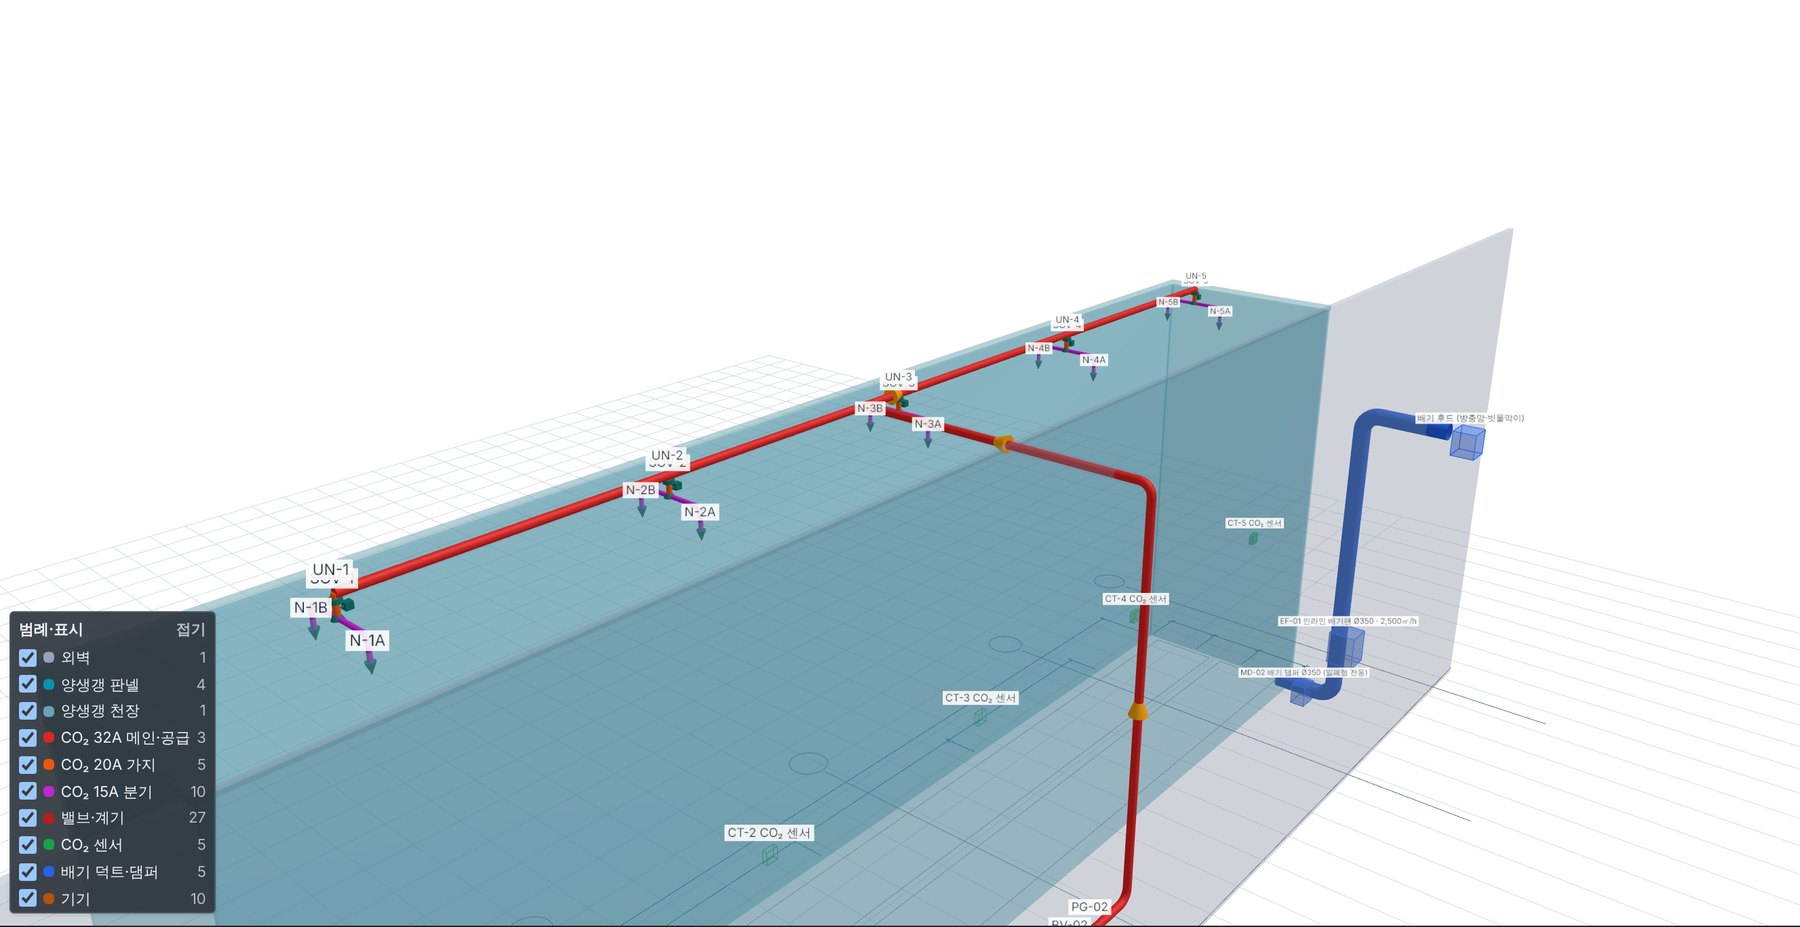
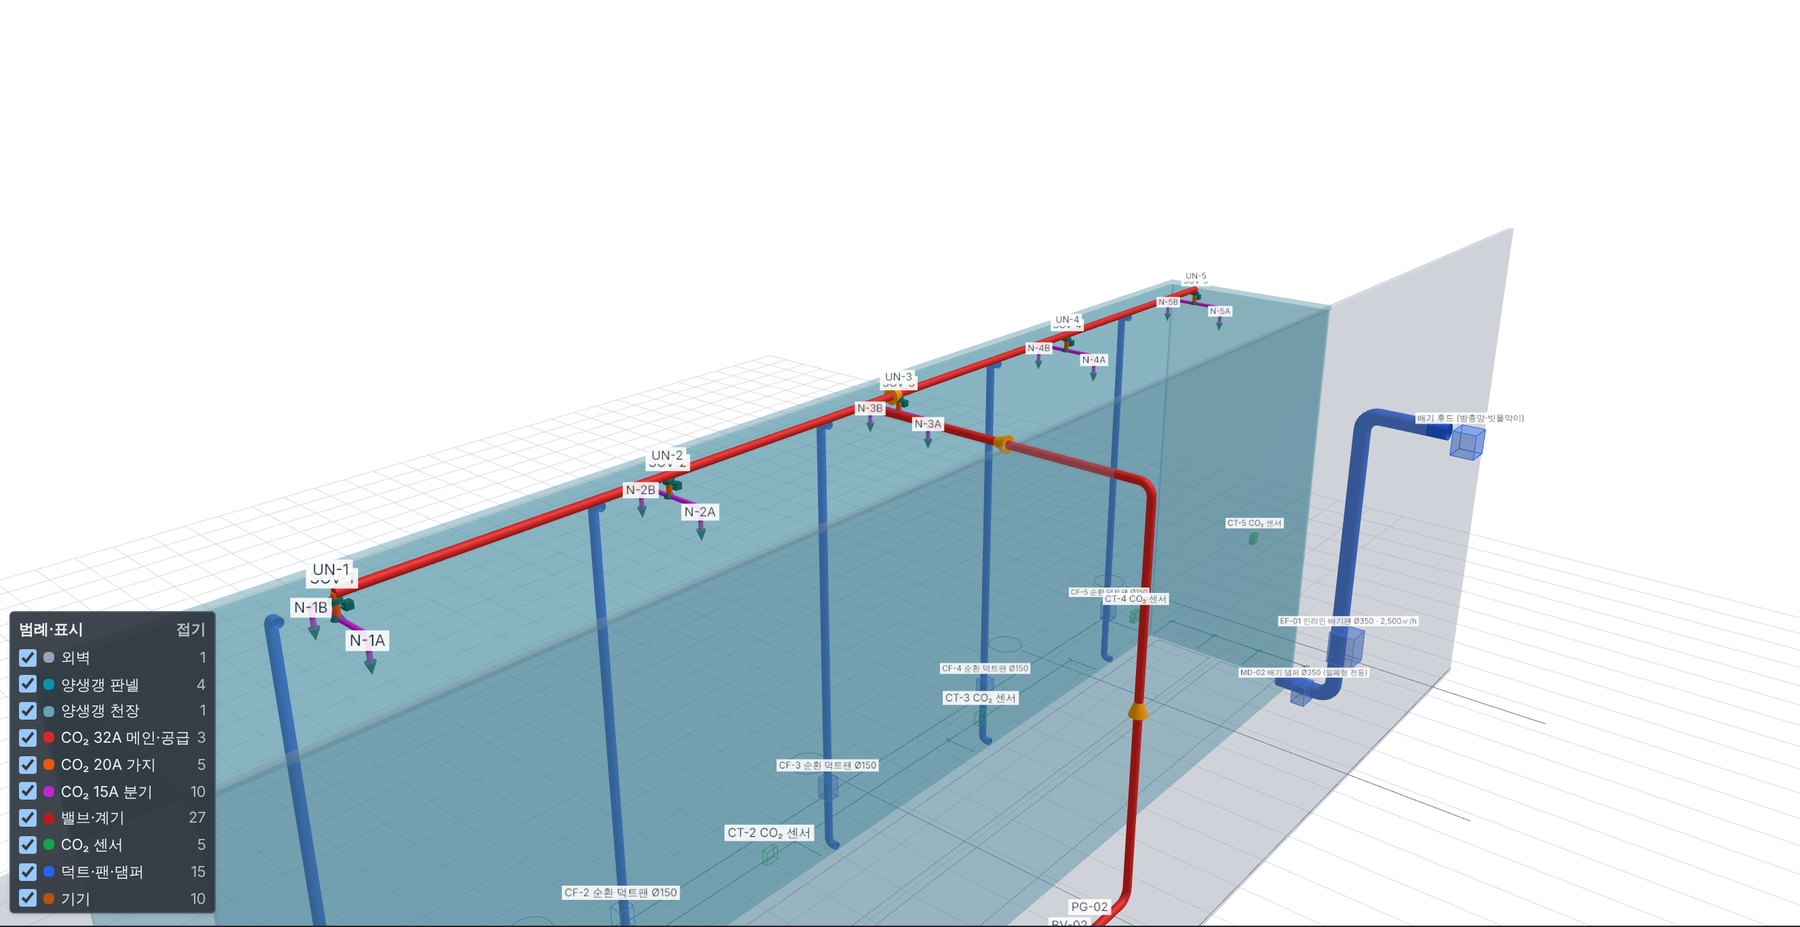
데코페이브 도면 그림·3D 화면: 순환 덕트팬 5세트 넣음 (#217)
Claude-Session: https://claude.ai/code/session_01MdRgMhkkCG9jx7tPyuMZFB

diff --git a/public/client-assets/decopave/3d.html b/public/client-assets/decopave/3d.html
@@ -53,12 +53,12 @@ button:focus-visible{outline:2px solid #2c5ce6;outline-offset:2px}
         <span><i style="background:#c026d3"></i>토출 분기관</span>
         <span><i style="background:#0f766e"></i>밸브·계기</span>
         <span><i style="background:#16a34a"></i>CO₂ 센서 5개</span>
-        <span><i style="background:#2563eb"></i>퍼지 배기 덕트</span>
+        <span><i style="background:#2563eb"></i>덕트·팬·댐퍼</span>
         <span><i style="background:#b45309"></i>제어반·기기</span>
         <span><i style="background:#67a3b5"></i>양생갱 (별도 공사)</span>
         <span><i style="background:#c4ccd4"></i>외벽</span>
       </div>
-      <p class="note">배관은 보기 쉽게 실제보다 굵게 그림. CO₂ 센서는 구간마다 오른쪽 벽면 중간 높이에 1개씩 5개이며 위치는 실측 때 확정함. CO₂ 저장탱크·기화기는 가스 공급사 범위이며 위치와 크기는 가정임. 배관 루트는 착수 전 실측으로 확정함.</p>
+      <p class="note">배관은 보기 쉽게 실제보다 굵게 그림. CO₂ 센서는 구간마다 오른쪽 벽면 중간 높이에 1개씩 5개, 순환 덕트팬은 구간마다 1세트이며 위치는 실측 때 확정함. CO₂ 저장탱크·기화기는 가스 공급사 범위이며 위치와 크기는 가정임. 배관 루트는 착수 전 실측으로 확정함.</p>
     </div>
   </section>
   <div class="hint" id="hint">끌어서 돌리기 · 휠로 확대 · 오른쪽 버튼(두 손가락)으로 이동</div>
@@ -83,7 +83,7 @@ button:focus-visible{outline:2px solid #2c5ce6;outline-offset:2px}
 <script>
 (function(){
 'use strict';
-var D={"pipes":[{"s":"32A","p":[[-10.35,3.0,0.6],[10.9,3.0,0.6],[10.9,9.46,0.6],[10.9,9.46,-4.435]]},{"s":"32A","p":[[2.342,9.46,-4.435],[7.026,9.46,-4.435],[10.9,9.46,-4.435],[11.71,9.46,-4.435],[16.394,9.46,-4.435],[21.078,9.46,-4.435]]},{"s":"20A","p":[[2.342,9.46,-4.435],[2.342,9.16,-4.435]]},{"s":"15A","p":[[2.342,9.16,-4.435],[2.342,9.16,-3.835],[2.342,8.76,-3.835]]},{"s":"15A","p":[[2.342,9.16,-4.435],[2.342,9.16,-5.035],[2.342,8.76,-5.035]]},{"s":"20A","p":[[7.026,9.46,-4.435],[7.026,9.16,-4.435]]},{"s":"15A","p":[[7.026,9.16,-4.435],[7.026,9.16,-3.835],[7.026,8.76,-3.835]]},{"s":"15A","p":[[7.026,9.16,-4.435],[7.026,9.16,-5.035],[7.026,8.76,-5.035]]},{"s":"20A","p":[[11.71,9.46,-4.435],[11.71,9.16,-4.435]]},{"s":"15A","p":[[11.71,9.16,-4.435],[11.71,9.16,-3.835],[11.71,8.76,-3.835]]},{"s":"15A","p":[[11.71,9.16,-4.435],[11.71,9.16,-5.035],[11.71,8.76,-5.035]]},{"s":"20A","p":[[16.394,9.46,-4.435],[16.394,9.16,-4.435]]},{"s":"15A","p":[[16.394,9.16,-4.435],[16.394,9.16,-3.835],[16.394,8.76,-3.835]]},{"s":"15A","p":[[16.394,9.16,-4.435],[16.394,9.16,-5.035],[16.394,8.76,-5.035]]},{"s":"20A","p":[[21.078,9.46,-4.435],[21.078,9.16,-4.435]]},{"s":"15A","p":[[21.078,9.16,-4.435],[21.078,9.16,-3.835],[21.078,8.76,-3.835]]},{"s":"15A","p":[[21.078,9.16,-4.435],[21.078,9.16,-5.035],[21.078,8.76,-5.035]]}],"fits":[{"k":"ball-valve","p":[6.399,3.0,0.6],"t":"BV-01 수동 차단밸브"},{"k":"solenoid","p":[7.899,3.0,0.6],"t":"MV-01 메인 차단 전자밸브"},{"k":"유량계","p":[8.4,3.0,0.6],"t":"FT-01 유량계"},{"k":"regulator","p":[6.9,3.0,0.6],"t":"PRV-01 정압기"},{"k":"safety-valve","p":[8.901,3.0,0.6],"t":"SV-01 안전밸브"},{"k":"gauge","p":[7.401,3.0,0.6],"t":"PG-01·PT-01 압력계"},{"k":"ball-valve","p":[9.399,3.0,0.6],"t":"BV-02 차단밸브"},{"k":"union","p":[2.342,9.37,-4.435],"t":""},{"k":"solenoid","p":[2.342,9.27,-4.435],"t":"SOV-1 구간 전자밸브"},{"k":"nozzle","p":[2.342,8.76,-3.835],"t":""},{"k":"nozzle","p":[2.342,8.76,-5.035],"t":""},{"k":"union","p":[7.026,9.37,-4.435],"t":""},{"k":"solenoid","p":[7.026,9.27,-4.435],"t":"SOV-2 구간 전자밸브"},{"k":"nozzle","p":[7.026,8.76,-3.835],"t":""},{"k":"nozzle","p":[7.026,8.76,-5.035],"t":""},{"k":"union","p":[11.71,9.37,-4.435],"t":""},{"k":"solenoid","p":[11.71,9.27,-4.435],"t":"SOV-3 구간 전자밸브"},{"k":"nozzle","p":[11.71,8.76,-3.835],"t":""},{"k":"nozzle","p":[11.71,8.76,-5.035],"t":""},{"k":"union","p":[16.394,9.37,-4.435],"t":""},{"k":"solenoid","p":[16.394,9.27,-4.435],"t":"SOV-4 구간 전자밸브"},{"k":"nozzle","p":[16.394,8.76,-3.835],"t":""},{"k":"nozzle","p":[16.394,8.76,-5.035],"t":""},{"k":"union","p":[21.078,9.37,-4.435],"t":""},{"k":"solenoid","p":[21.078,9.27,-4.435],"t":"SOV-5 구간 전자밸브"},{"k":"nozzle","p":[21.078,8.76,-3.835],"t":""},{"k":"nozzle","p":[21.078,8.76,-5.035],"t":""},{"k":"gauge","p":[9.9,3.0,0.6],"t":"PG-02 압력계"}],"boxes":[{"tag":"","layer":"ROOF","min":[-0.1,8.86,-6.335],"max":[23.52,8.96,-2.535]},{"tag":"CP-01 제어반","layer":"EQUIP","min":[3.9,0.0,-0.1],"max":[4.7,1.8,0.3]},{"tag":"MD-02 배기 댐퍼 Ø350 (밀폐형 전동)","layer":"DUCT","min":[22.575,0.175,-2.2],"max":[23.025,0.625,-1.9]},{"tag":"EF-01 인라인 배기팬 Ø350 · 2,500㎥/h","layer":"DUCT","min":[22.525,1.5,-1.575],"max":[23.075,2.2,-1.025]},{"tag":"배기 후드 (방충망·빗물막이)","layer":"DUCT","min":[22.55,6.7,0.45],"max":[23.05,7.2,0.9]},{"tag":"기화기·감압 (공급사)","layer":"EQUIP","min":[-11.15,0.0,0.15],"max":[-10.35,3.2,0.65]},{"tag":"CT-1 CO₂ 센서","layer":"SENSOR","min":[2.242,4.33,-2.715],"max":[2.442,4.53,-2.635]},{"tag":"CT-2 CO₂ 센서","layer":"SENSOR","min":[6.926,4.33,-2.715],"max":[7.126,4.53,-2.635]},{"tag":"CT-3 CO₂ 센서","layer":"SENSOR","min":[11.61,4.33,-2.715],"max":[11.81,4.53,-2.635]},{"tag":"CT-4 CO₂ 센서","layer":"SENSOR","min":[16.294,4.33,-2.715],"max":[16.494,4.53,-2.635]},{"tag":"CT-5 CO₂ 센서","layer":"SENSOR","min":[20.978,4.33,-2.715],"max":[21.178,4.53,-2.635]},{"tag":"MD-03 급기 전동댐퍼 600×400 (MD-02 연동)","layer":"DUCT","min":[0.6,0.3,-2.685],"max":[1.2,0.7,-2.485]}],"rounds":[{"layer":"DUCT","id":"m99","r":0.175,"p":[[22.8,0.4,-2.585],[22.8,0.4,-1.3],[22.8,7.0,-1.3],[22.8,7.0,0.45]]},{"layer":"EQUIP","id":"tk1","r":1.1,"p":[[-12.6,0.6,1.7],[-12.6,4.6,1.7]]},{"layer":"EQUIP","id":"tk2","r":0.75,"p":[[-12.6,4.6,1.7],[-12.6,4.9,1.7]]},{"layer":"EQUIP","id":"tk3","r":0.75,"p":[[-12.6,0.3,1.7],[-12.6,0.6,1.7]]},{"layer":"EQUIP","id":"tk4","r":0.075,"p":[[-13.3,0.0,2.4],[-13.3,0.9,2.4]]},{"layer":"EQUIP","id":"tk5","r":0.075,"p":[[-11.9,0.0,2.4],[-11.9,0.9,2.4]]},{"layer":"EQUIP","id":"tk6","r":0.075,"p":[[-13.3,0.0,1.0],[-13.3,0.9,1.0]]},{"layer":"EQUIP","id":"tk7","r":0.075,"p":[[-11.9,0.0,1.0],[-11.9,0.9,1.0]]},{"layer":"EQUIP","id":"tk10","r":0.03,"p":[[-12.6,0.9,1.7],[-12.6,0.9,0.4],[-11.15,0.9,0.4]]}],"walls":[{"k":"out","a":[-11.8,0.0,0.0],"b":[26.4,0.0,0.0],"h":10.5},{"k":"ch","a":[-0.05,0.0,-2.585],"b":[23.47,0.0,-2.585],"h":8.86},{"k":"ch","a":[23.47,0.0,-2.585],"b":[23.47,0.0,-6.285],"h":8.86},{"k":"ch","a":[23.47,0.0,-6.285],"b":[-0.05,0.0,-6.285],"h":8.86},{"k":"ch","a":[-0.05,0.0,-6.285],"b":[-0.05,0.0,-2.585],"h":8.86}],"racks":[[0.094,-4.29,23.321,-2.89],[0.094,-5.98,23.321,-4.58]]};
+var D={"pipes":[{"s":"32A","p":[[-10.35,3.0,0.6],[10.9,3.0,0.6],[10.9,9.46,0.6],[10.9,9.46,-4.435]]},{"s":"32A","p":[[2.342,9.46,-4.435],[7.026,9.46,-4.435],[10.9,9.46,-4.435],[11.71,9.46,-4.435],[16.394,9.46,-4.435],[21.078,9.46,-4.435]]},{"s":"20A","p":[[2.342,9.46,-4.435],[2.342,9.16,-4.435]]},{"s":"15A","p":[[2.342,9.16,-4.435],[2.342,9.16,-3.835],[2.342,8.76,-3.835]]},{"s":"15A","p":[[2.342,9.16,-4.435],[2.342,9.16,-5.035],[2.342,8.76,-5.035]]},{"s":"20A","p":[[7.026,9.46,-4.435],[7.026,9.16,-4.435]]},{"s":"15A","p":[[7.026,9.16,-4.435],[7.026,9.16,-3.835],[7.026,8.76,-3.835]]},{"s":"15A","p":[[7.026,9.16,-4.435],[7.026,9.16,-5.035],[7.026,8.76,-5.035]]},{"s":"20A","p":[[11.71,9.46,-4.435],[11.71,9.16,-4.435]]},{"s":"15A","p":[[11.71,9.16,-4.435],[11.71,9.16,-3.835],[11.71,8.76,-3.835]]},{"s":"15A","p":[[11.71,9.16,-4.435],[11.71,9.16,-5.035],[11.71,8.76,-5.035]]},{"s":"20A","p":[[16.394,9.46,-4.435],[16.394,9.16,-4.435]]},{"s":"15A","p":[[16.394,9.16,-4.435],[16.394,9.16,-3.835],[16.394,8.76,-3.835]]},{"s":"15A","p":[[16.394,9.16,-4.435],[16.394,9.16,-5.035],[16.394,8.76,-5.035]]},{"s":"20A","p":[[21.078,9.46,-4.435],[21.078,9.16,-4.435]]},{"s":"15A","p":[[21.078,9.16,-4.435],[21.078,9.16,-3.835],[21.078,8.76,-3.835]]},{"s":"15A","p":[[21.078,9.16,-4.435],[21.078,9.16,-5.035],[21.078,8.76,-5.035]]}],"fits":[{"k":"ball-valve","p":[6.399,3.0,0.6],"t":"BV-01 수동 차단밸브"},{"k":"solenoid","p":[7.899,3.0,0.6],"t":"MV-01 메인 차단 전자밸브"},{"k":"유량계","p":[8.4,3.0,0.6],"t":"FT-01 유량계"},{"k":"regulator","p":[6.9,3.0,0.6],"t":"PRV-01 정압기"},{"k":"safety-valve","p":[8.901,3.0,0.6],"t":"SV-01 안전밸브"},{"k":"gauge","p":[7.401,3.0,0.6],"t":"PG-01·PT-01 압력계"},{"k":"ball-valve","p":[9.399,3.0,0.6],"t":"BV-02 차단밸브"},{"k":"union","p":[2.342,9.37,-4.435],"t":""},{"k":"solenoid","p":[2.342,9.27,-4.435],"t":"SOV-1 구간 전자밸브"},{"k":"nozzle","p":[2.342,8.76,-3.835],"t":""},{"k":"nozzle","p":[2.342,8.76,-5.035],"t":""},{"k":"union","p":[7.026,9.37,-4.435],"t":""},{"k":"solenoid","p":[7.026,9.27,-4.435],"t":"SOV-2 구간 전자밸브"},{"k":"nozzle","p":[7.026,8.76,-3.835],"t":""},{"k":"nozzle","p":[7.026,8.76,-5.035],"t":""},{"k":"union","p":[11.71,9.37,-4.435],"t":""},{"k":"solenoid","p":[11.71,9.27,-4.435],"t":"SOV-3 구간 전자밸브"},{"k":"nozzle","p":[11.71,8.76,-3.835],"t":""},{"k":"nozzle","p":[11.71,8.76,-5.035],"t":""},{"k":"union","p":[16.394,9.37,-4.435],"t":""},{"k":"solenoid","p":[16.394,9.27,-4.435],"t":"SOV-4 구간 전자밸브"},{"k":"nozzle","p":[16.394,8.76,-3.835],"t":""},{"k":"nozzle","p":[16.394,8.76,-5.035],"t":""},{"k":"union","p":[21.078,9.37,-4.435],"t":""},{"k":"solenoid","p":[21.078,9.27,-4.435],"t":"SOV-5 구간 전자밸브"},{"k":"nozzle","p":[21.078,8.76,-3.835],"t":""},{"k":"nozzle","p":[21.078,8.76,-5.035],"t":""},{"k":"gauge","p":[9.9,3.0,0.6],"t":"PG-02 압력계"}],"boxes":[{"tag":"","layer":"ROOF","min":[-0.1,8.86,-6.335],"max":[23.52,8.96,-2.535]},{"tag":"CP-01 제어반","layer":"EQUIP","min":[3.9,0.0,-0.1],"max":[4.7,1.8,0.3]},{"tag":"MD-02 배기 댐퍼 Ø350 (밀폐형 전동)","layer":"DUCT","min":[22.575,0.175,-2.2],"max":[23.025,0.625,-1.9]},{"tag":"EF-01 인라인 배기팬 Ø350 · 2,500㎥/h","layer":"DUCT","min":[22.525,1.5,-1.575],"max":[23.075,2.2,-1.025]},{"tag":"배기 후드 (방충망·빗물막이)","layer":"DUCT","min":[22.55,6.7,0.45],"max":[23.05,7.2,0.9]},{"tag":"기화기·감압 (공급사)","layer":"EQUIP","min":[-11.15,0.0,0.15],"max":[-10.35,3.2,0.65]},{"tag":"CT-1 CO₂ 센서","layer":"SENSOR","min":[2.242,4.33,-2.715],"max":[2.442,4.53,-2.635]},{"tag":"CT-2 CO₂ 센서","layer":"SENSOR","min":[6.926,4.33,-2.715],"max":[7.126,4.53,-2.635]},{"tag":"CT-3 CO₂ 센서","layer":"SENSOR","min":[11.61,4.33,-2.715],"max":[11.81,4.53,-2.635]},{"tag":"CT-4 CO₂ 센서","layer":"SENSOR","min":[16.294,4.33,-2.715],"max":[16.494,4.53,-2.635]},{"tag":"CT-5 CO₂ 센서","layer":"SENSOR","min":[20.978,4.33,-2.715],"max":[21.178,4.53,-2.635]},{"tag":"MD-03 급기 전동댐퍼 600×400 (MD-02 연동)","layer":"DUCT","min":[0.6,0.3,-2.685],"max":[1.2,0.7,-2.485]},{"tag":"CF-1 순환 덕트팬 Ø150","layer":"DUCT","min":[2.217,1.5,-6.26],"max":[2.467,1.9,-6.01]},{"tag":"CF-2 순환 덕트팬 Ø150","layer":"DUCT","min":[6.901,1.5,-6.26],"max":[7.151,1.9,-6.01]},{"tag":"CF-3 순환 덕트팬 Ø150","layer":"DUCT","min":[11.585,1.5,-6.26],"max":[11.835,1.9,-6.01]},{"tag":"CF-4 순환 덕트팬 Ø150","layer":"DUCT","min":[16.269,1.5,-6.26],"max":[16.519,1.9,-6.01]},{"tag":"CF-5 순환 덕트팬 Ø150","layer":"DUCT","min":[20.953,1.5,-6.26],"max":[21.203,1.9,-6.01]}],"rounds":[{"layer":"DUCT","id":"m99","r":0.175,"p":[[22.8,0.4,-2.585],[22.8,0.4,-1.3],[22.8,7.0,-1.3],[22.8,7.0,0.45]]},{"layer":"EQUIP","id":"tk1","r":1.1,"p":[[-12.6,0.6,1.7],[-12.6,4.6,1.7]]},{"layer":"EQUIP","id":"tk2","r":0.75,"p":[[-12.6,4.6,1.7],[-12.6,4.9,1.7]]},{"layer":"EQUIP","id":"tk3","r":0.75,"p":[[-12.6,0.3,1.7],[-12.6,0.6,1.7]]},{"layer":"EQUIP","id":"tk4","r":0.075,"p":[[-13.3,0.0,2.4],[-13.3,0.9,2.4]]},{"layer":"EQUIP","id":"tk5","r":0.075,"p":[[-11.9,0.0,2.4],[-11.9,0.9,2.4]]},{"layer":"EQUIP","id":"tk6","r":0.075,"p":[[-13.3,0.0,1.0],[-13.3,0.9,1.0]]},{"layer":"EQUIP","id":"tk7","r":0.075,"p":[[-11.9,0.0,1.0],[-11.9,0.9,1.0]]},{"layer":"EQUIP","id":"tk10","r":0.03,"p":[[-12.6,0.9,1.7],[-12.6,0.9,0.4],[-11.15,0.9,0.4]]},{"layer":"DUCT","id":"cfd1","r":0.075,"p":[[2.342,0.4,-5.935],[2.342,0.4,-6.135],[2.342,8.6,-6.135],[2.342,8.6,-5.935]]},{"layer":"DUCT","id":"cfd2","r":0.075,"p":[[7.026,0.4,-5.935],[7.026,0.4,-6.135],[7.026,8.6,-6.135],[7.026,8.6,-5.935]]},{"layer":"DUCT","id":"cfd3","r":0.075,"p":[[11.71,0.4,-5.935],[11.71,0.4,-6.135],[11.71,8.6,-6.135],[11.71,8.6,-5.935]]},{"layer":"DUCT","id":"cfd4","r":0.075,"p":[[16.394,0.4,-5.935],[16.394,0.4,-6.135],[16.394,8.6,-6.135],[16.394,8.6,-5.935]]},{"layer":"DUCT","id":"cfd5","r":0.075,"p":[[21.078,0.4,-5.935],[21.078,0.4,-6.135],[21.078,8.6,-6.135],[21.078,8.6,-5.935]]}],"walls":[{"k":"out","a":[-11.8,0.0,0.0],"b":[26.4,0.0,0.0],"h":10.5},{"k":"ch","a":[-0.05,0.0,-2.585],"b":[23.47,0.0,-2.585],"h":8.86},{"k":"ch","a":[23.47,0.0,-2.585],"b":[23.47,0.0,-6.285],"h":8.86},{"k":"ch","a":[23.47,0.0,-6.285],"b":[-0.05,0.0,-6.285],"h":8.86},{"k":"ch","a":[-0.05,0.0,-6.285],"b":[-0.05,0.0,-2.585],"h":8.86}],"racks":[[0.094,-4.29,23.321,-2.89],[0.094,-5.98,23.321,-4.58]]};
 var canvas=document.getElementById('c'), hint=document.getElementById('hint'), labelBox=document.getElementById('labels');
 if(!window.THREE){ hint.textContent='3D 화면을 불러오지 못함. 새로 고침해 주십시오.'; hint.style.display='block'; return; }
 var renderer;
